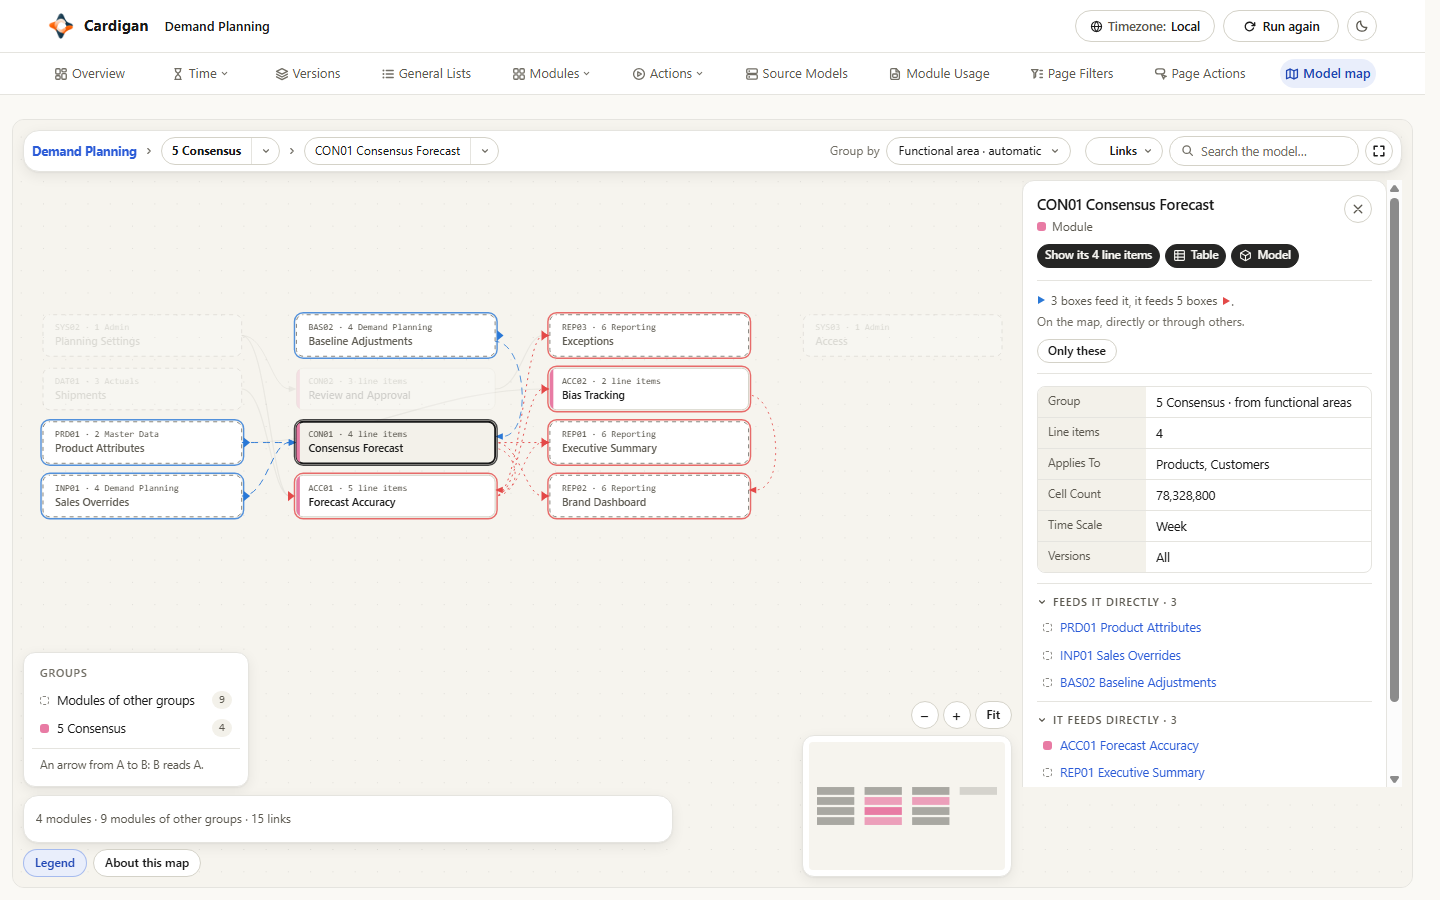
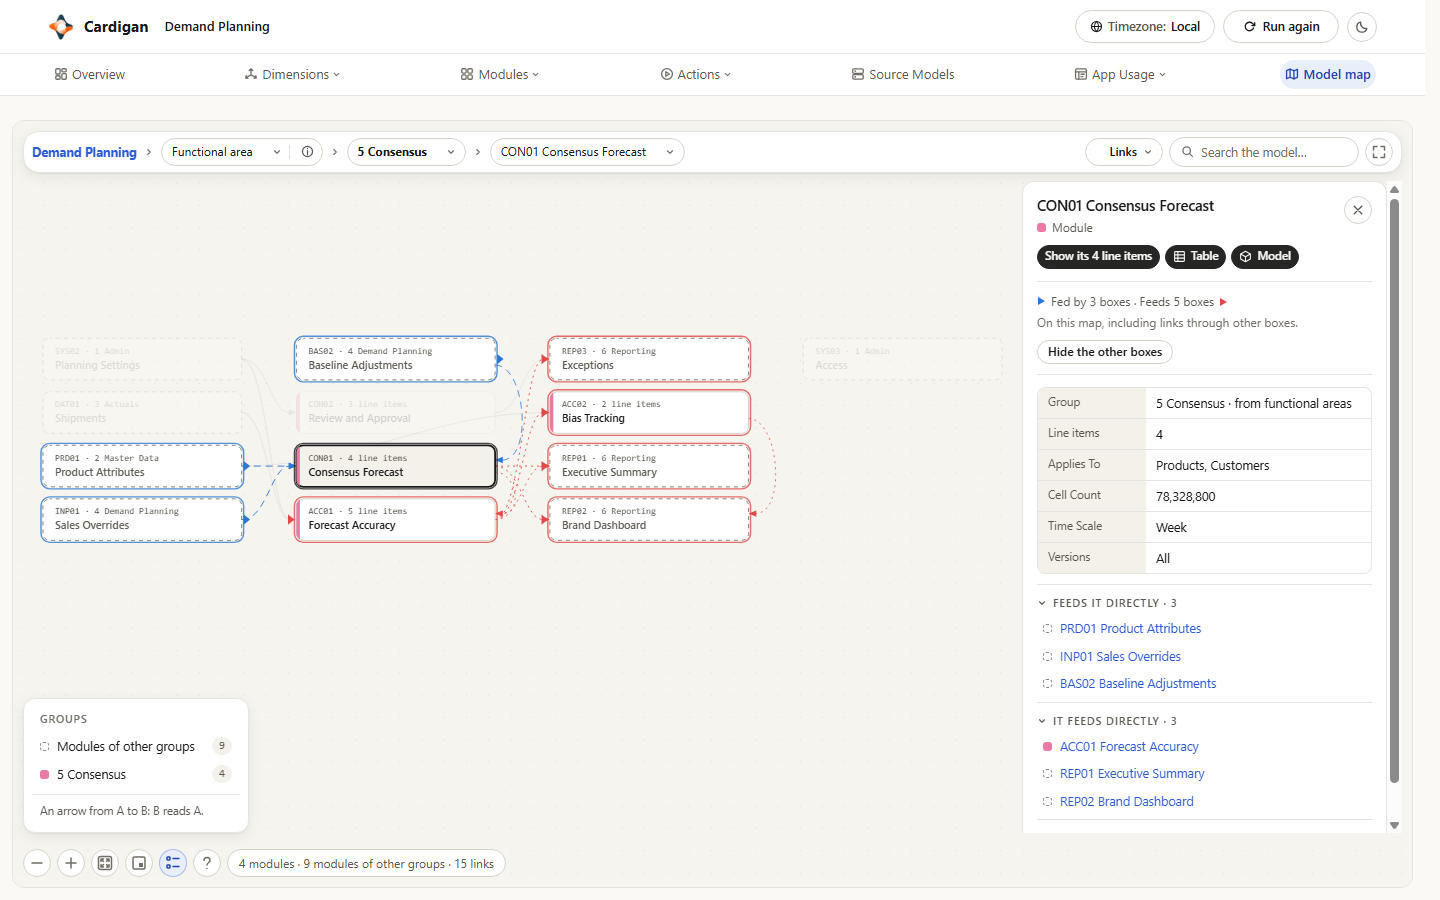
README: retaken pictures for today's Cardigan, with a new Line Item Subsets picture

diff --git a/README.md b/README.md
@@ -29,7 +29,7 @@ Cardigan only reads, with your own signed-in session; nothing leaves your browse
 
 Open the model in **Model Building**. The **Overview** shows table counts, the model calendar, details of what was read and any gaps. Click a tile to open its table. **How to read these tables**, on the Overview, explains each table's columns and rules.
 
-![Model Overview with table counts, the calendar and model details](docs/images/model-overview.png)
+![Light Overview with Dimensions and App Usage menus, table counts, FY26 and About this export](docs/images/model-overview.png)
 
 The menu bar groups the model's tables:
 
@@ -60,17 +60,19 @@ The menu bar groups the model's tables:
 
 **Line Items** lists each line item beside its module. Module settings have their own table, **Modules**. Use **Format type** to filter by data type; untick **No Data** to leave out line items used as headings. Open a row to read its formula, dimensions and references in full.
 
-![Line Items with a Format type filter and a row's details open](docs/images/model-line-items.png)
+![Line Items with Format type open, No Data unticked and the tick-all checkbox inside Find](docs/images/model-line-items.png)
 
 **Imports** shows where data comes from and where it goes. For file imports, the row's **Mapping** shows the saved sources and targets, including constants and prompts, and notes targets that are not mapped. It reads the saved definition, not the uploaded file.
 
-![A file import's saved mapping in its details](docs/images/model-imports.png)
+![Load promotions file import with its saved Mapping open](docs/images/model-imports.png)
 
 **Processes** shows each process's actions in run order. Open a row to see the steps and follow an action to its own details.
 
-![A process with its actions listed in run order](docs/images/model-processes.png)
+![Weekly forecast refresh process with its three actions in run order](docs/images/model-processes.png)
 
 **Line Item Subsets** shows member counts. Open a subset to see its members grouped by module and follow them to their rows. The details say when membership could not be read.
+
+![Consensus measures subset with five members grouped under their modules](docs/images/model-line-item-subsets.png)
 
 **Classic and Polaris:** Cardigan reads both engines the same way through Model Building, so the tables are the same. When Model Building's client does not answer, Cardigan reads what it can and the Overview explains what is missing.
 
@@ -84,11 +86,11 @@ The map shows how a model's groups, modules and line items connect. It is built 
 - Click a box for details and its connections. **Hide the other boxes** keeps its chain in view; **Show all boxes** brings the others back. **Table** and **Model** open the matching row or place in Anaplan where available.
 - Zoom out, Zoom in, Fit, Minimap, Legend and About share the controls row at the bottom left. **About** explains the map and its limits.
 
-![Model map grouped by functional area with Links open](docs/images/map-groups.png)
+![Light Model map grouped by Functional area, with Links open and the bottom-left controls row](docs/images/map-groups.png)
 
-![A module's line items on the dark map, with page-filter links and access-driver marks](docs/images/map-line-items.png)
+![Dark map of INP01 Sales Overrides line items with page-filter and access-driver links and Legend open](docs/images/map-line-items.png)
 
-![A selected module's map details and navigation buttons](docs/images/map-details.png)
+![CON01 Consensus Forecast map details showing Fed by, Feeds and Hide the other boxes](docs/images/map-details.png)
 
 The pictures use an invented bicycle planning model. All names, identifiers and data are invented.
 
